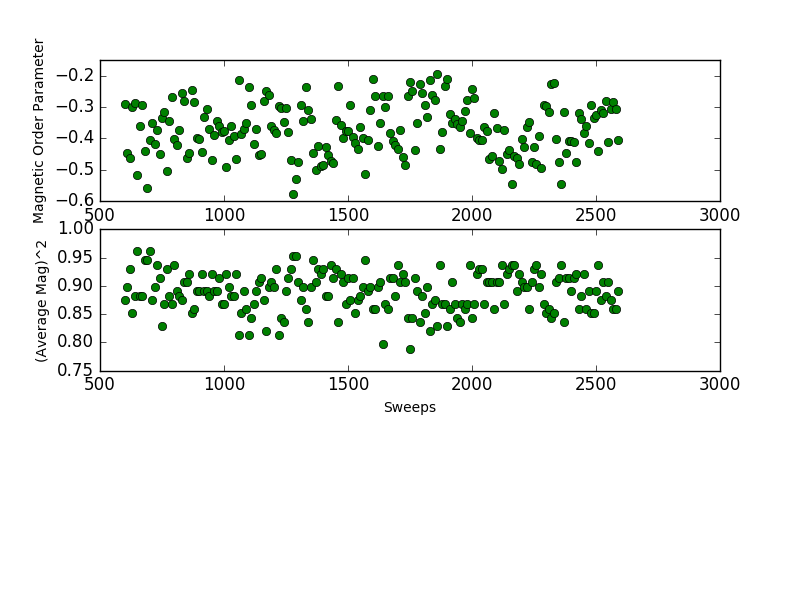
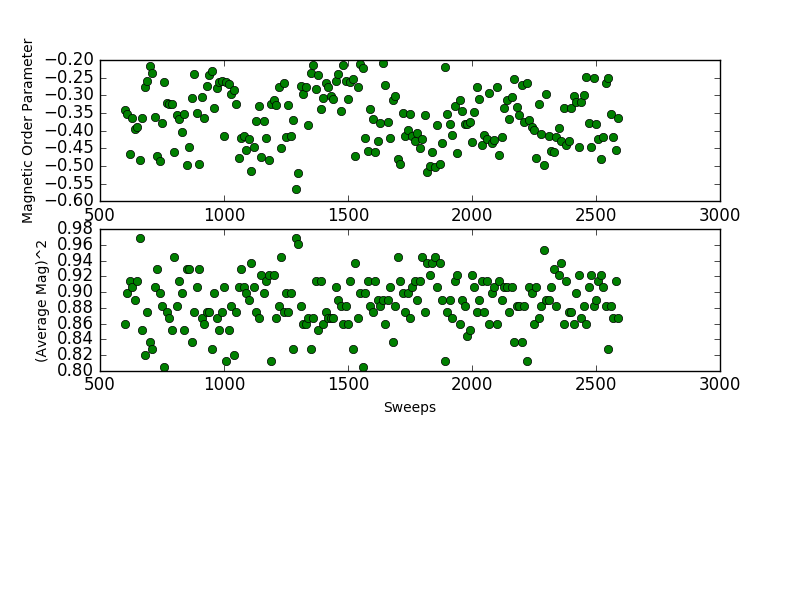
Added initial temperature argument

diff --git a/main.py b/main.py
@@ -56,11 +56,17 @@ print('#######################\n')
 temp_data = open('Temp_data','w')
 temp_data.write('Temp  H_avg  mag_avg  mag2_avg  phase_avg  phase2_avg\n')
 temp_data.close()
+
 x_pts = 4
 y_pts = 4
 z_pts = 8
 phase_init = 'mart'
 spin_init = 'AFM'
+num_passes = 200
+num_sub_passes = 5
+Temp0 = 600
+Temp_inc = 10
+
 # Initialize an array of atoms with ms.mc_supercellObj(size,species,composition)
 # size is (x,y,z)dimensions, species is types of atoms allowed (0=Ni,1=Mn,2=In)
 # composition is number of each atom (#Ni,#Mn,#In)
@@ -70,4 +76,4 @@ lattice = ms.mc_supercellObj((x_pts,y_pts,z_pts),(0,1,2),[64,64,0],phase_init,sp
 # mc.run_montecarlo(reference_to_atom_array,number_of_passes,starting_temp, BEG_rules,Cluster_rules,J_rules,plot_figs=TRUE)
 # BEG_rules,Cluster_rules,J_rules are objects that determine when and how the fitted parameters are applied
 print("Beginning MonteCarlo\n")
-mc.run_WA_MCA(lattice,200,5,600,Cluster_rules,J_rules,Js,do_figs=True)
+mc.run_WA_MCA(lattice,num_passes,num_sub_passes,Temp0,Temp_inc,Cluster_rules,J_rules,Js,do_figs=True)

diff --git a/mc_functions.py b/mc_functions.py
@@ -744,7 +744,7 @@ def run_montecarlo(supercell_obj,numb_passes,temp,BEG_rules,Cluster_rules,J_rule
     plt.savefig('3D_plt.png')
 
 #-# Runs the Wolf/Mixed Cluster Algorithm
-def run_WA_MCA(supercell_obj,numb_passes,num_sub_passes,temp,Cluster_rules,J_rules,Js,do_figs=True):
+def run_WA_MCA(supercell_obj,numb_passes,num_sub_passes,temp,temp_inc,Cluster_rules,J_rules,Js,do_figs=True):
     T = temp
     Kb = .000086173324
     B = 1/(Kb*T)
@@ -837,7 +837,7 @@ def run_WA_MCA(supercell_obj,numb_passes,num_sub_passes,temp,Cluster_rules,J_rul
         plt.plot(X_axis,total_phase2,lw=3,marker='o',color='r')
         print([H_total,H_total])
 
-        T += 10
+        T += temp_inc
         print(T)
         print('\n')
 
